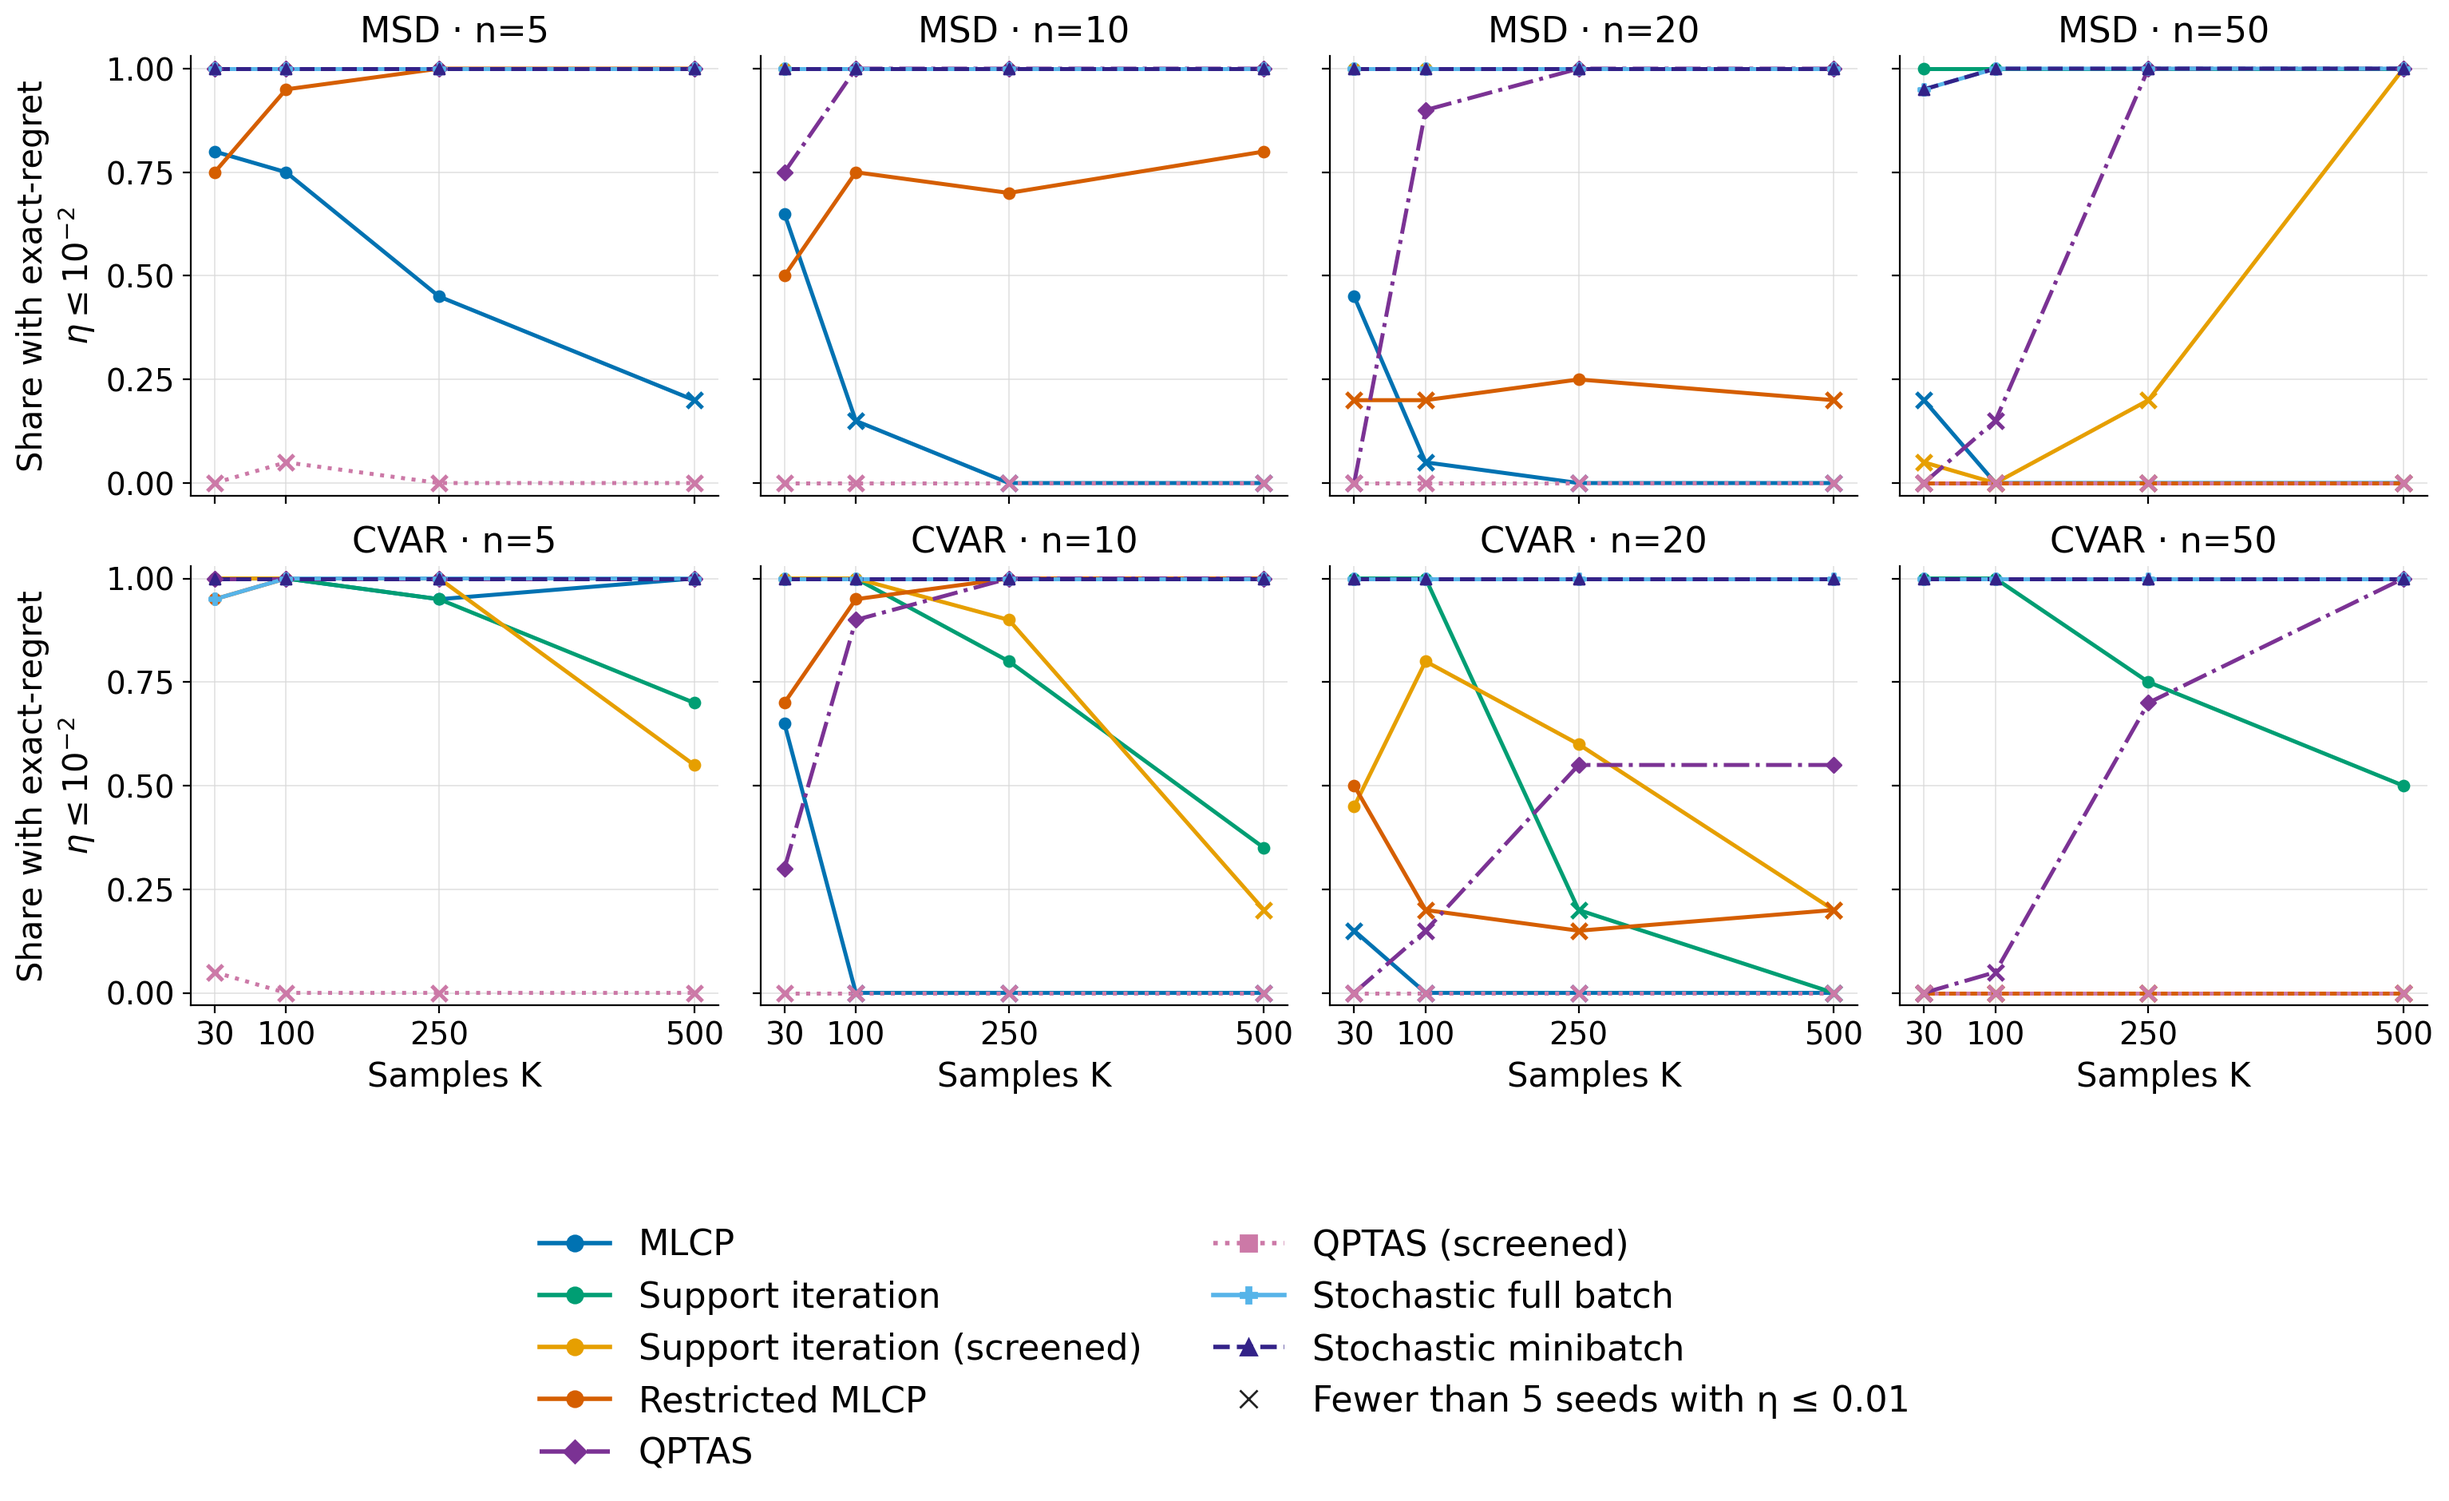
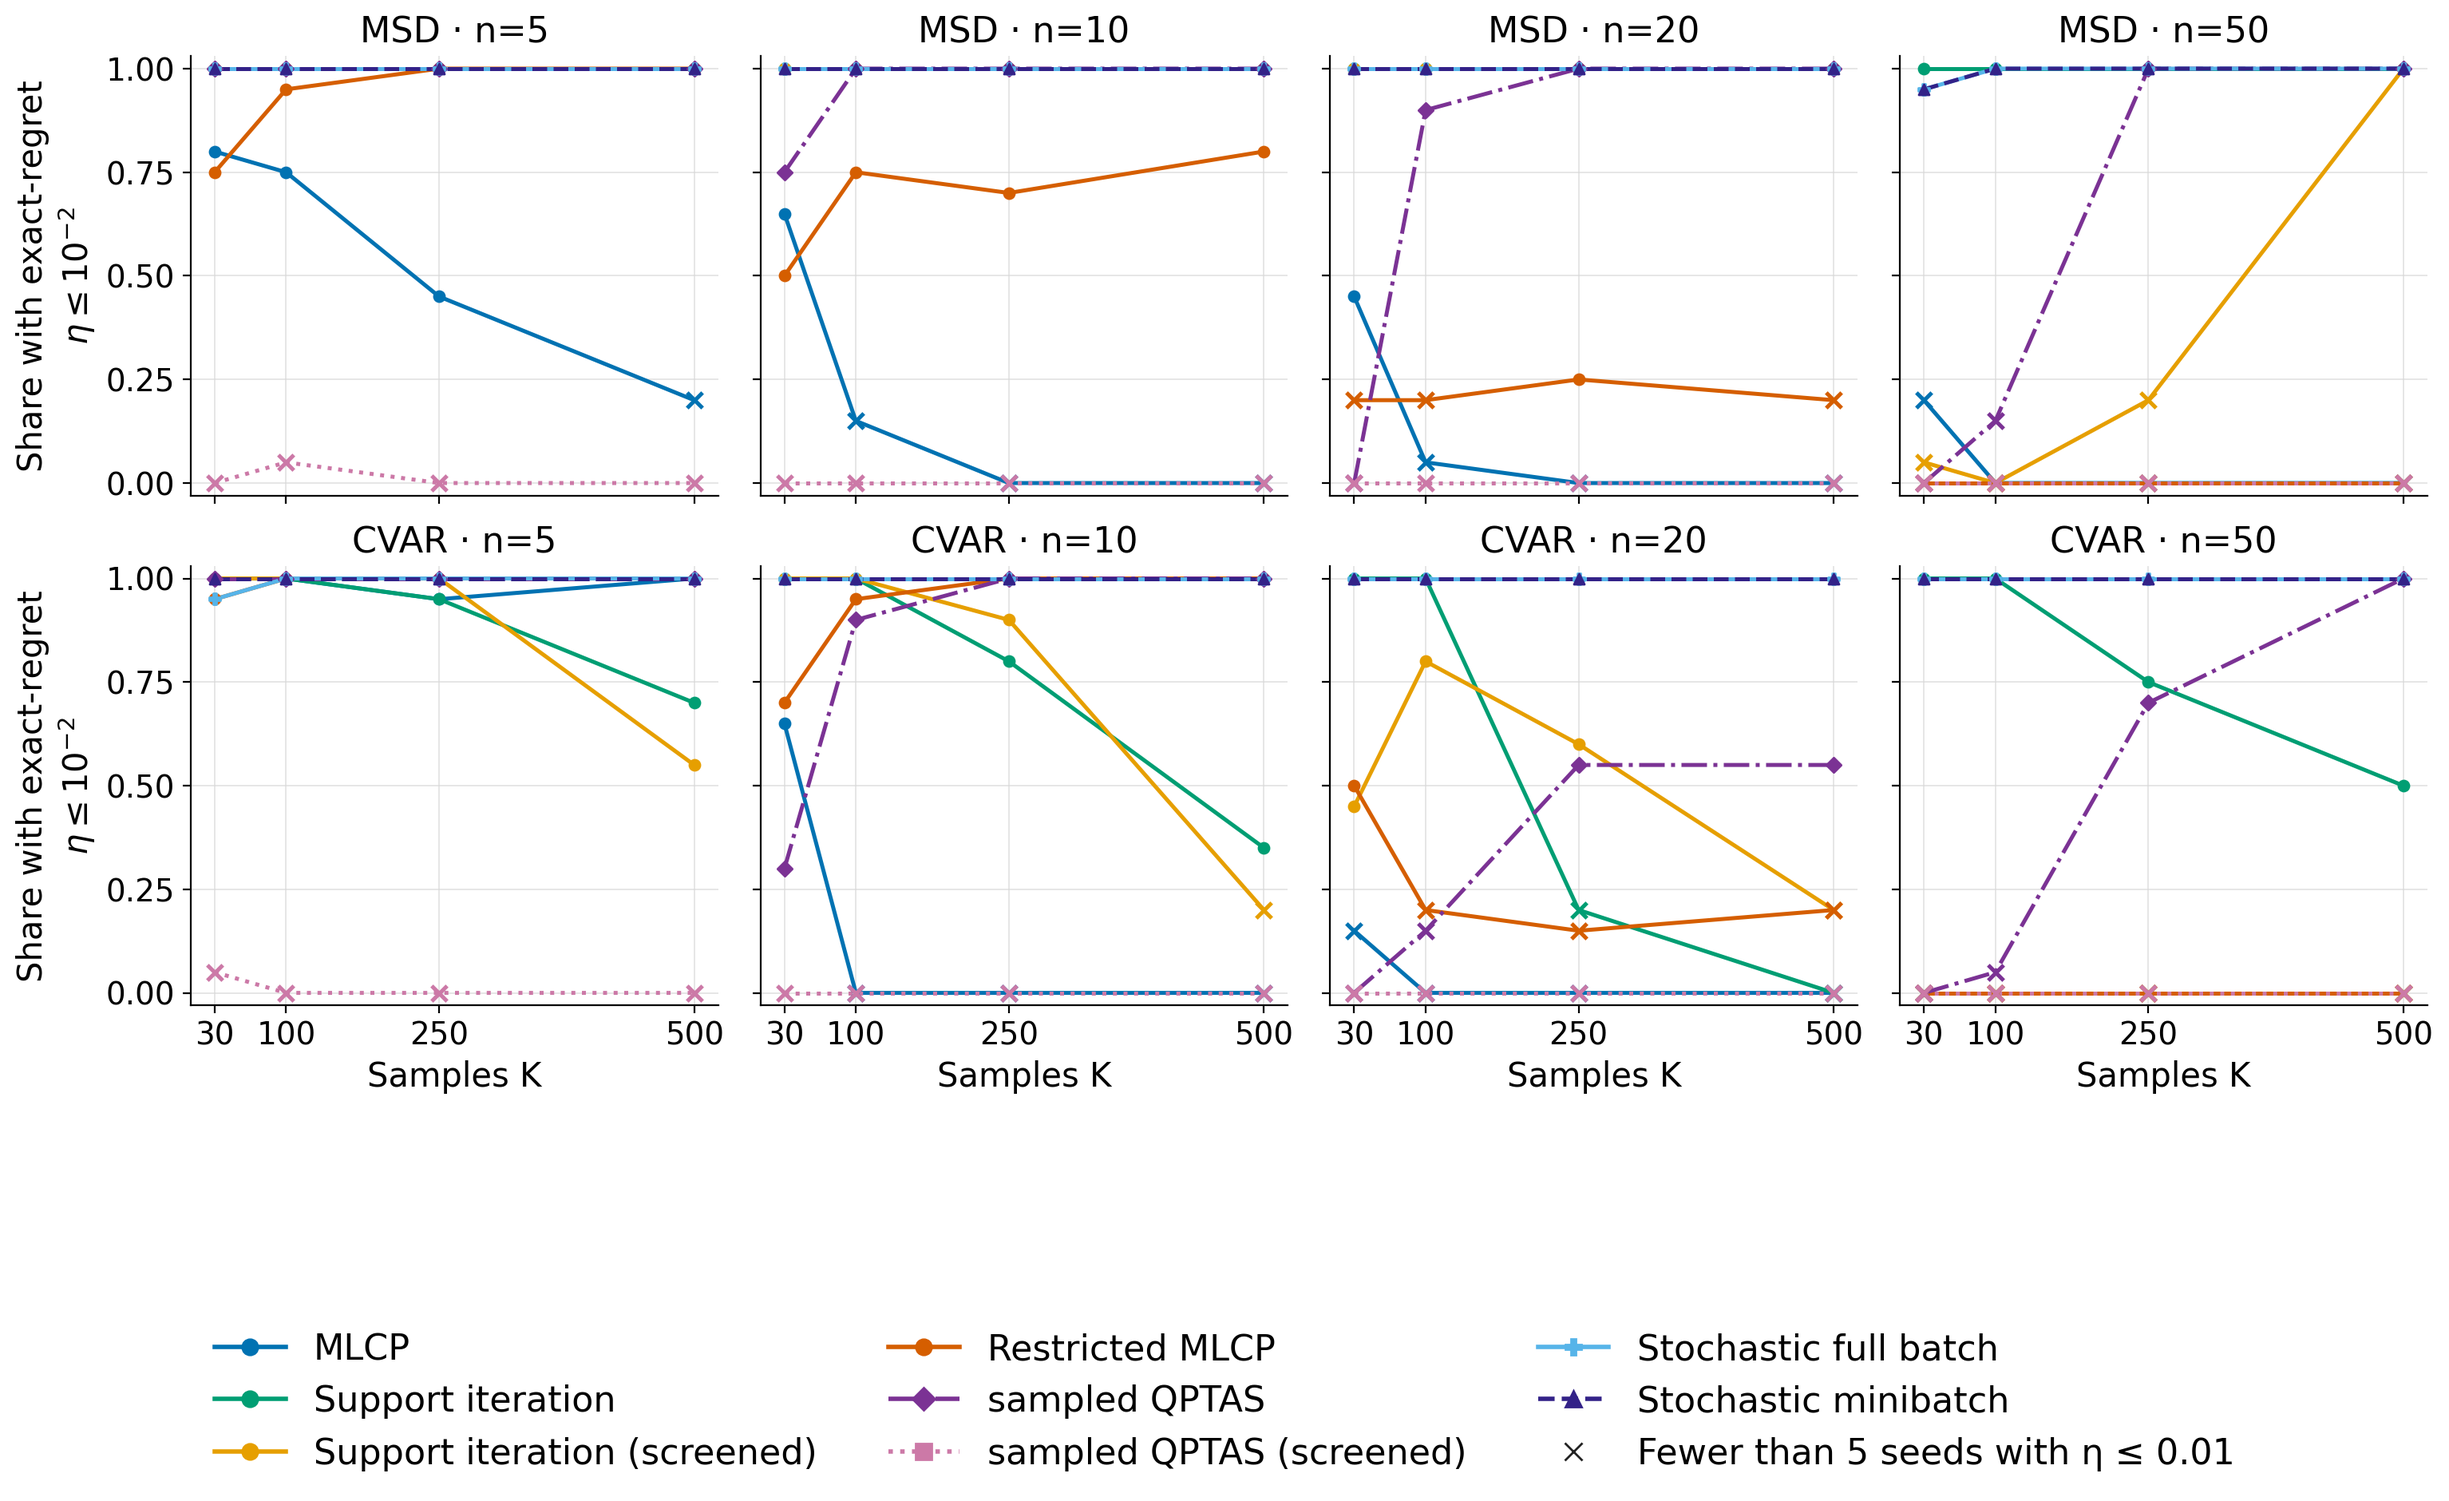
Update graph (#7)
* Updated ncols and qptas name

* linted

---------

Changed region(s): [[0.0929, 0.8021, 0.898, 0.9872], [0.2168, 0.8021, 0.2787, 0.8638]]

diff --git a/experiments/analysis/generate_readme_figures.py b/experiments/analysis/generate_readme_figures.py
@@ -54,8 +54,8 @@ METHOD_LABELS = {
     "screened_dual": "Support iteration (screened)",
     "action_dual": "Support iteration",
     "restricted_mcp": "Restricted MLCP",
-    "qptas": "QPTAS",
-    "qptas_screened": "QPTAS (screened)",
+    "qptas": "sampled QPTAS",
+    "qptas_screened": "sampled QPTAS (screened)",
     "stochastic_full_batch": "Stochastic full batch",
     "stochastic_minibatch": "Stochastic minibatch",
 }
@@ -283,7 +283,7 @@ def plot_runtime(long: pd.DataFrame, output_path: Path) -> None:
         handles=handles,
         loc="lower center",
         bbox_to_anchor=(0.5, 0.005),
-        ncol=2,
+        ncol=3,
         frameon=False,
         fontsize=16,
     )
@@ -322,7 +322,7 @@ def plot_certificate_rate(long: pd.DataFrame, output_path: Path) -> None:
         handles=_method_legend(METHODS),
         loc="lower center",
         bbox_to_anchor=(0.5, 0.005),
-        ncol=2,
+        ncol=3,
         frameon=False,
         fontsize=16,
     )
@@ -387,7 +387,7 @@ def plot_population_results(long: pd.DataFrame, output_path: Path) -> None:
     fig.legend(
         handles=_method_legend(POPULATION_METHODS),
         loc="lower center",
-        ncol=2,
+        ncol=3,
         frameon=False,
         fontsize=13,
     )
